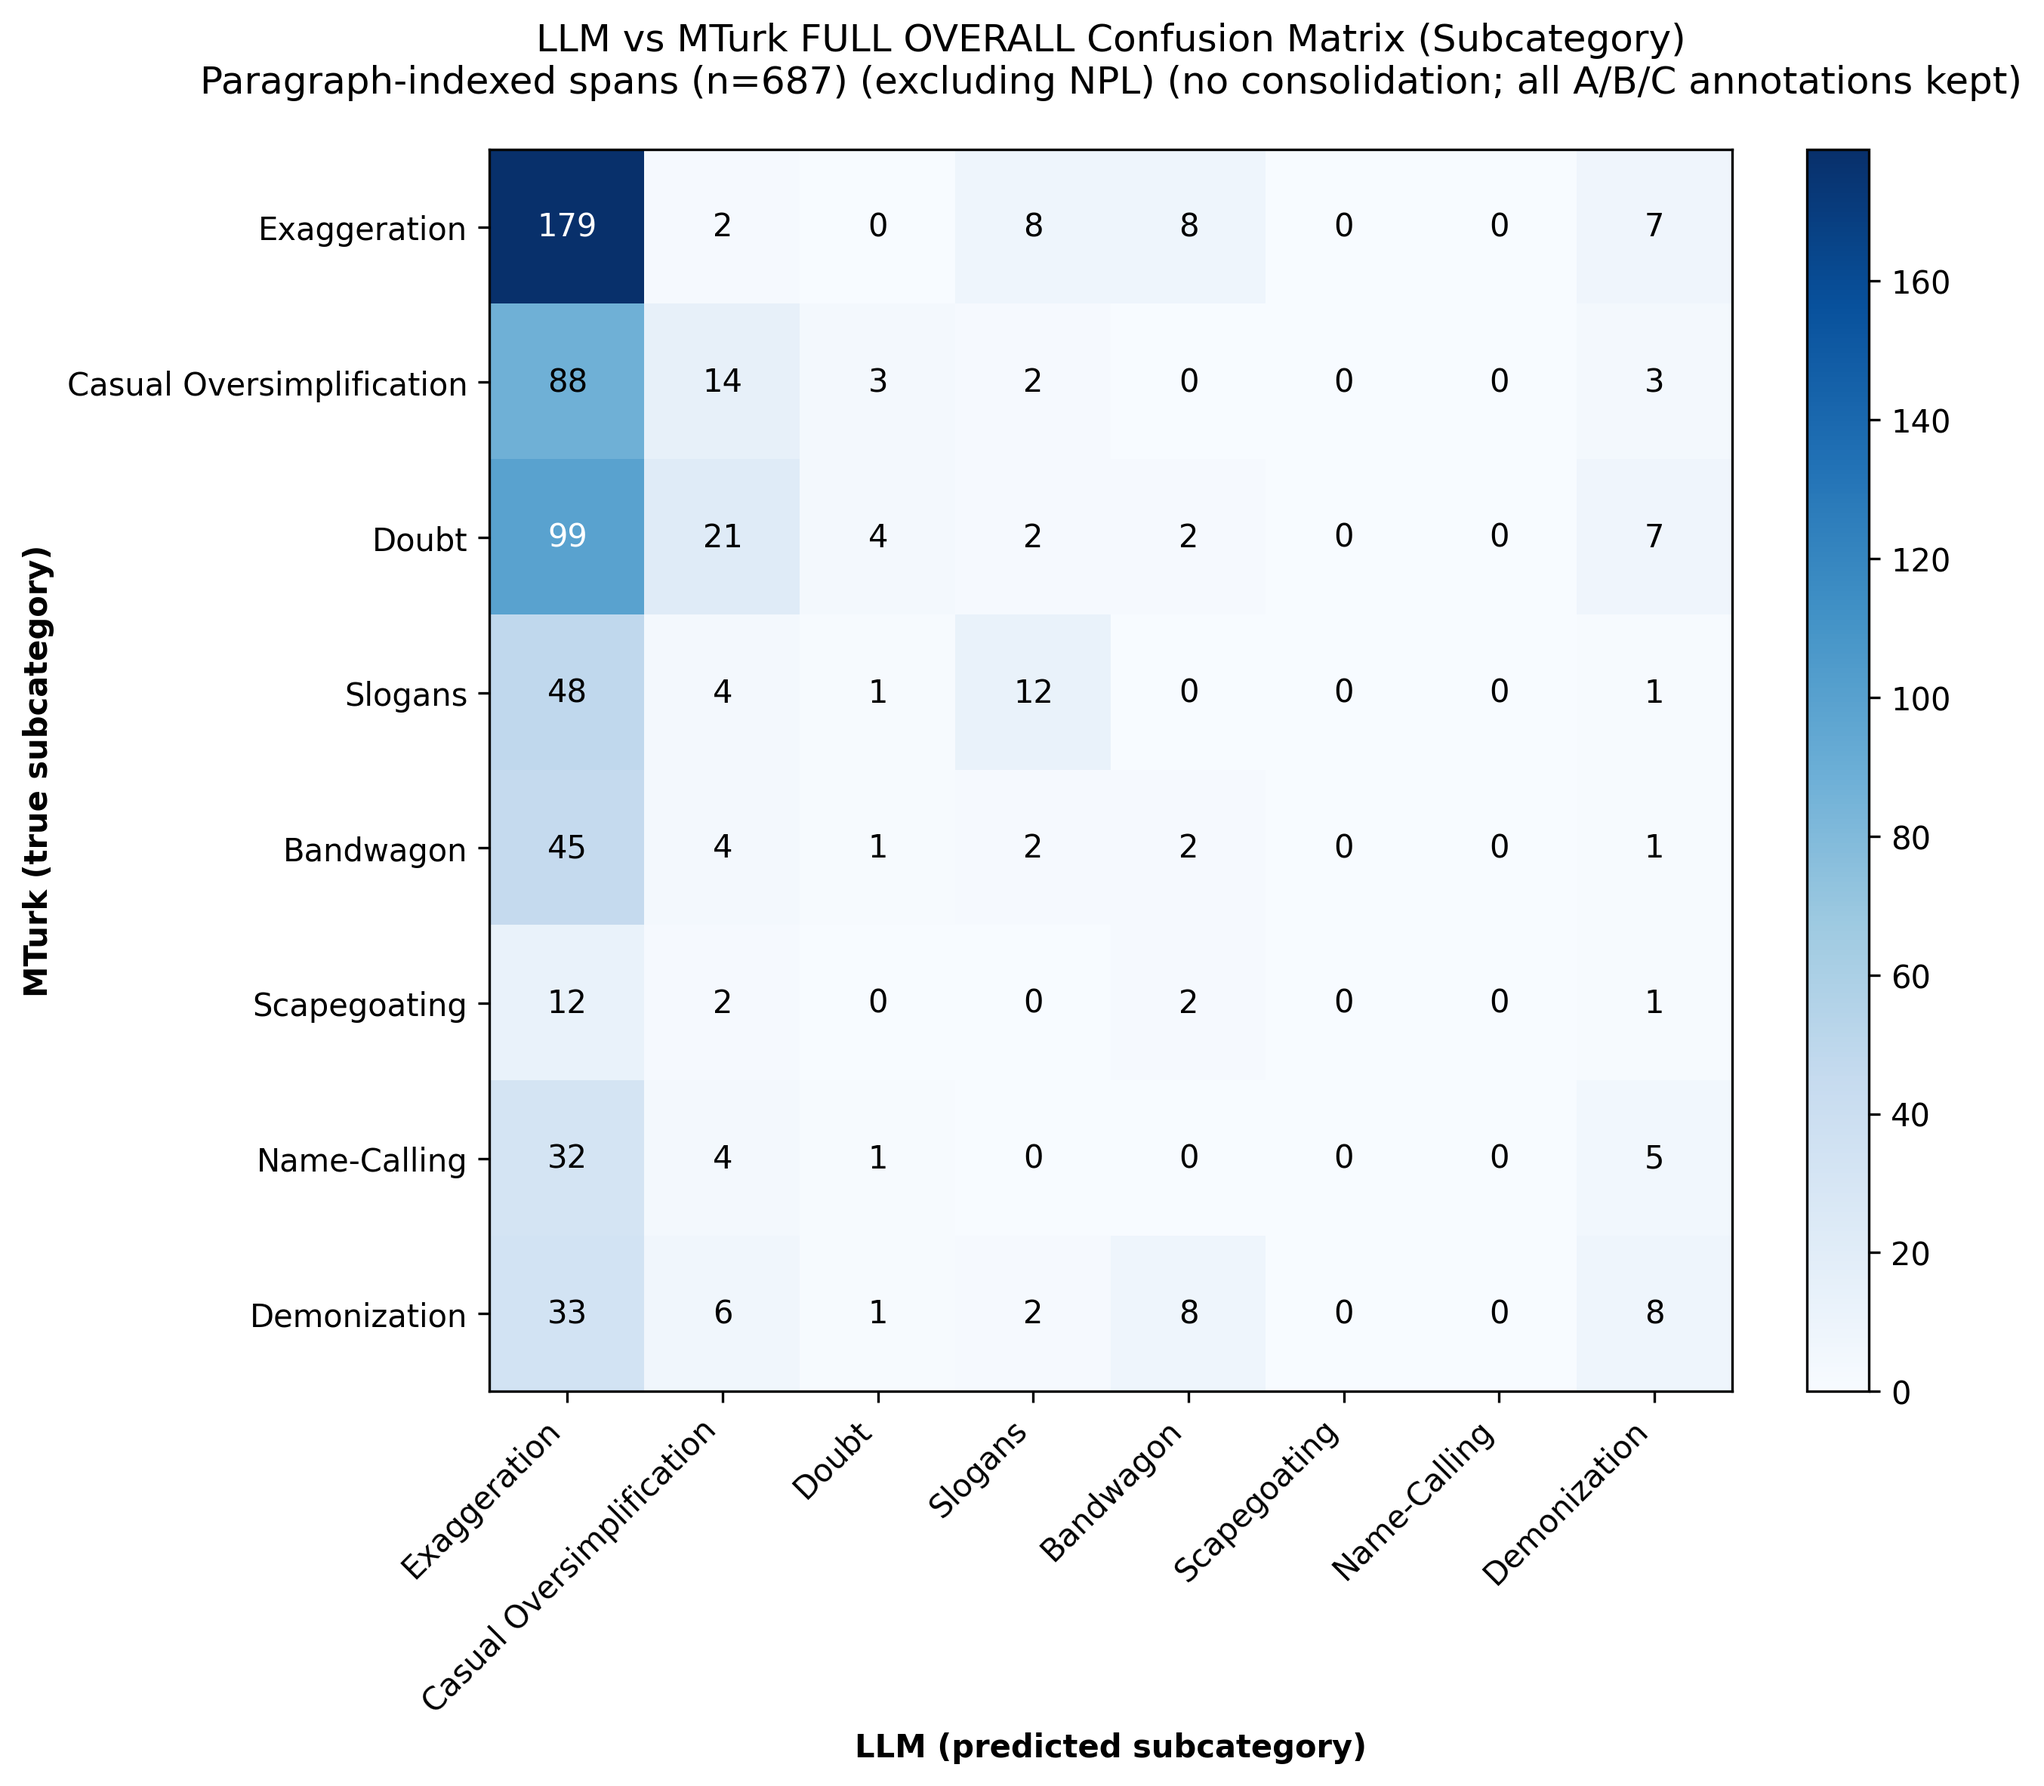
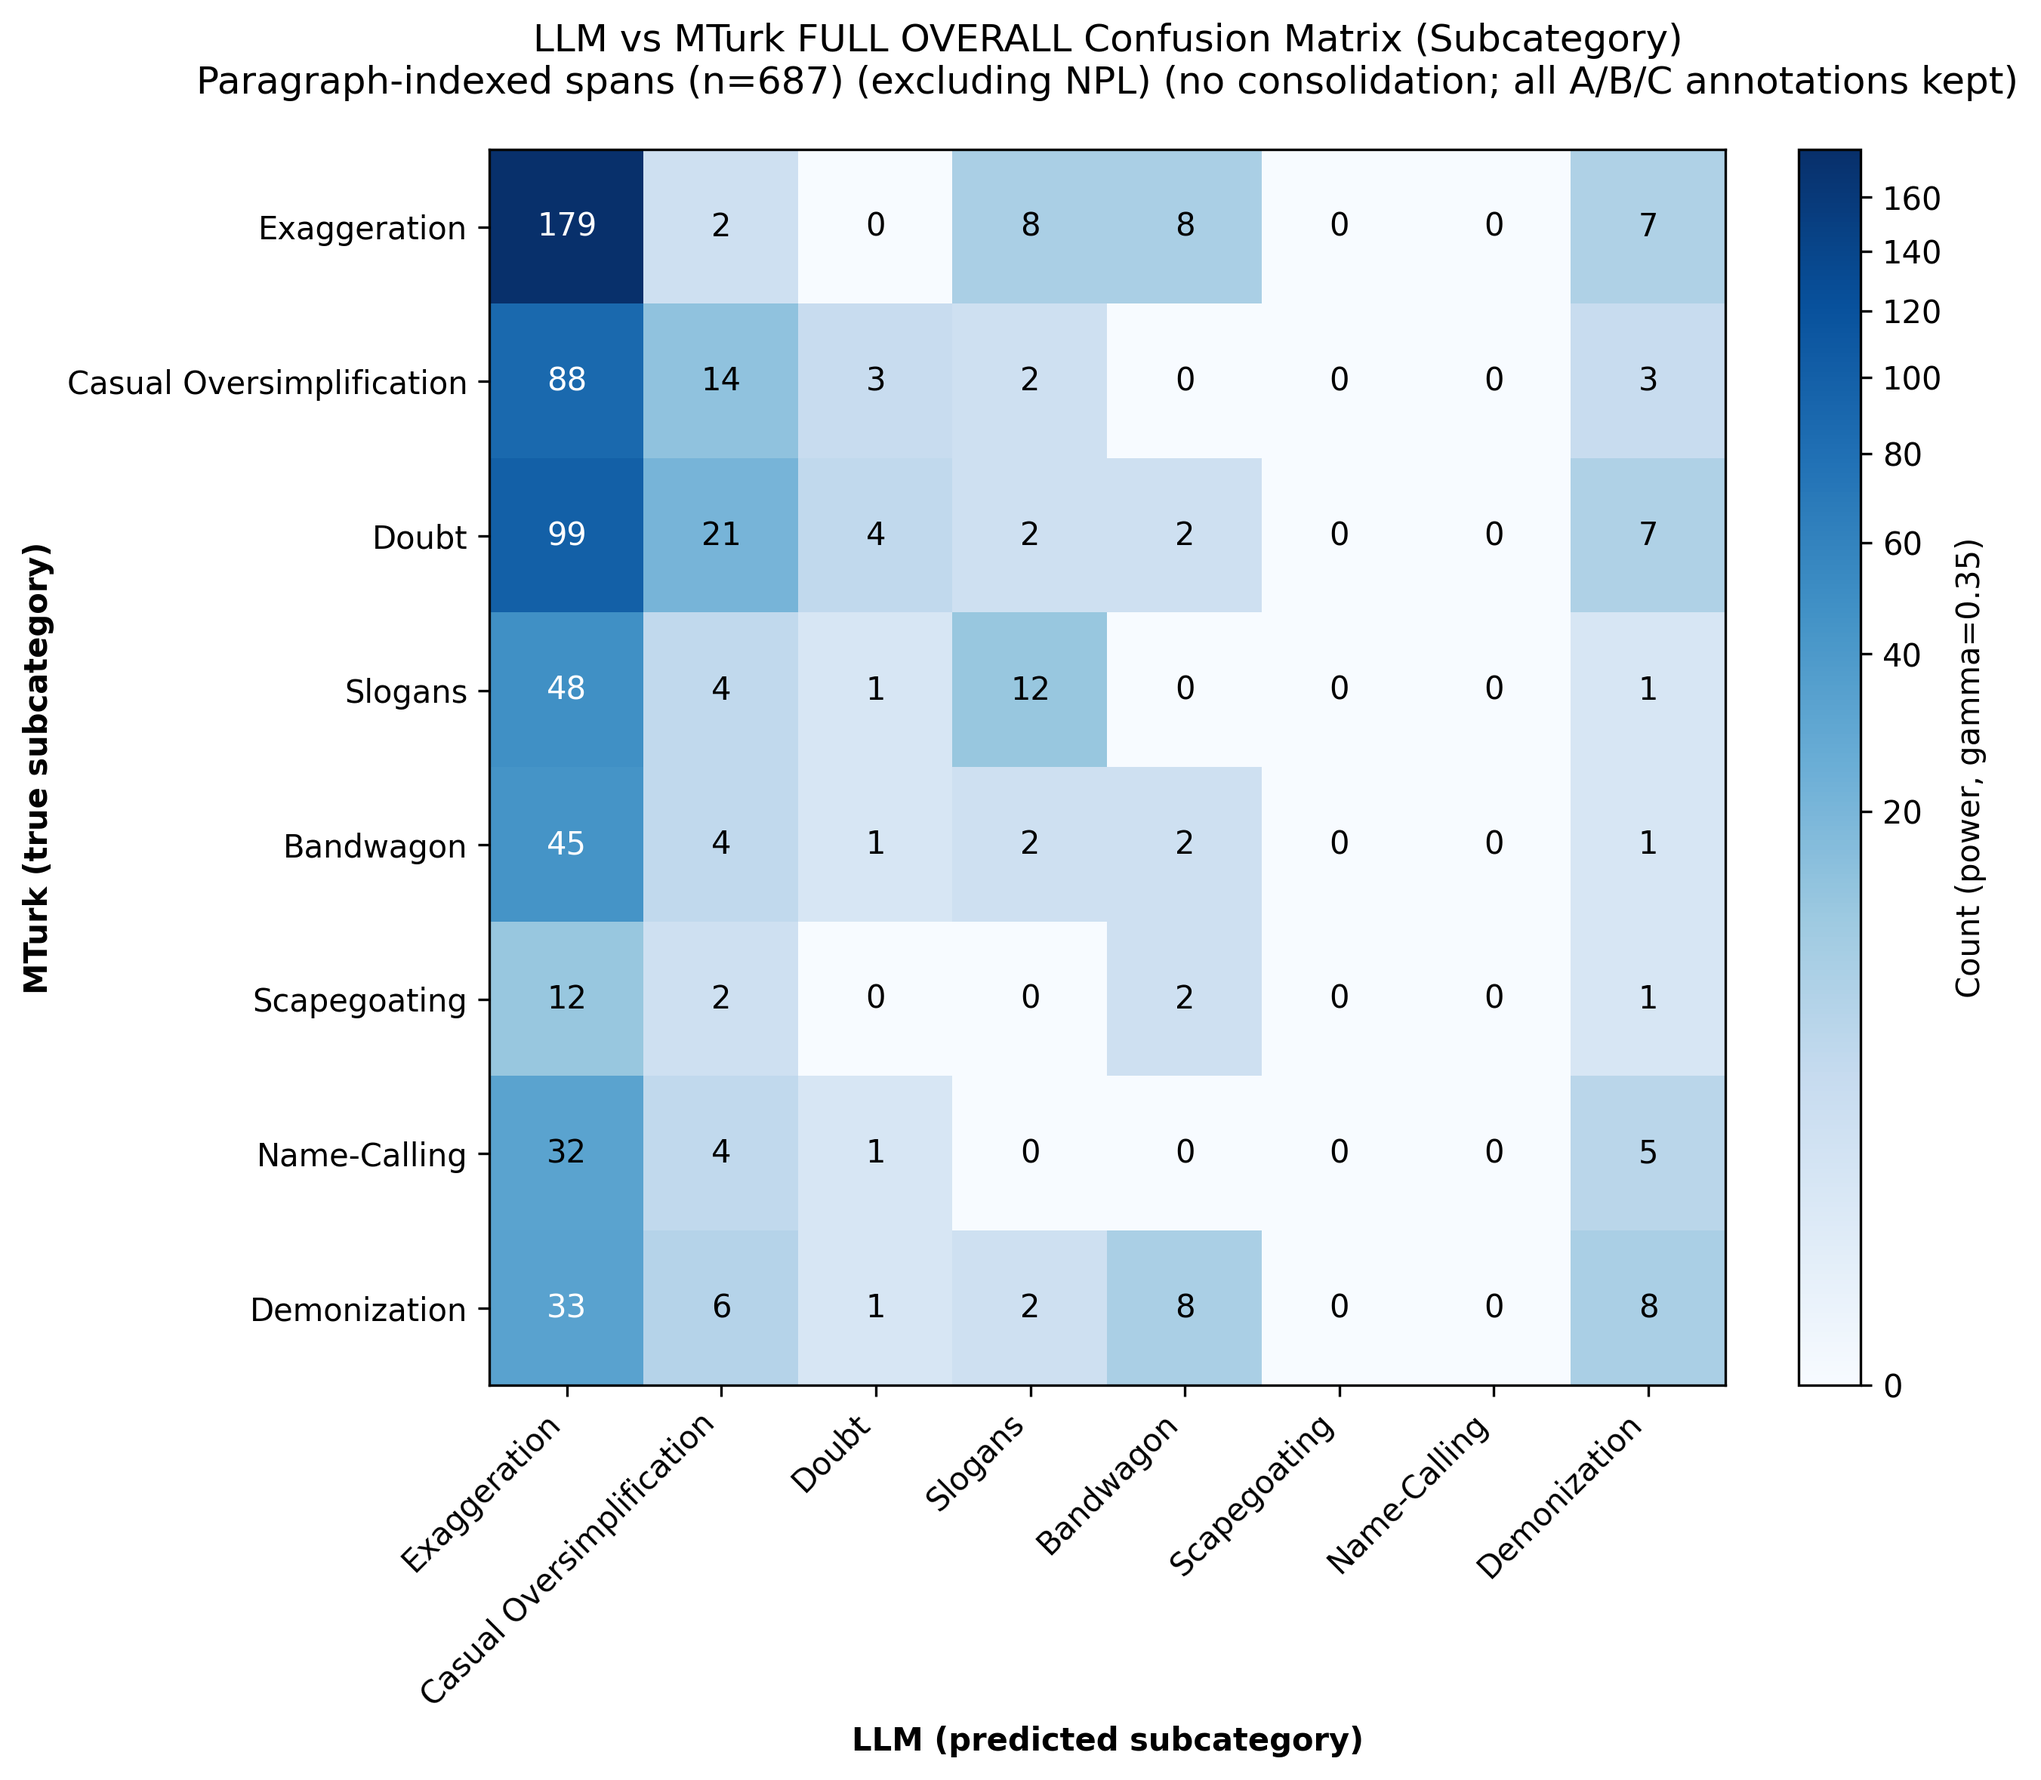
gamma scaling version of the heatmap

diff --git a/src/helper_scripts/full_overall_visualizations/visualize_full_overall_confusion_matrix_humans_vs_llms_no_consolidation.py b/src/helper_scripts/full_overall_visualizations/visualize_full_overall_confusion_matrix_humans_vs_llms_no_consolidation.py
@@ -23,6 +23,8 @@ MPLCONFIGDIR = OUTPUT_DIR / ".mplconfig"
 os.environ.setdefault("MPLCONFIGDIR", str(MPLCONFIGDIR))
 
 import matplotlib.pyplot as plt  # noqa: E402
+import numpy as np  # noqa: E402
+from matplotlib import colors  # noqa: E402
 
 
 # ------------------------
@@ -44,6 +46,13 @@ OUTPUT_IMG = OUTPUT_DIR / "confusion_matrix_llm_vs_mturk_full_overall_subcategor
 # ------------------------
 # If True, include NPL on both axes. If False, skip any pairs where either side is NPL.
 INCLUDE_NPL_IN_MATRIX = False
+
+# Make low-count cells more visible by compressing the color scale.
+USE_ENHANCED_CONTRAST = True
+# Options (only used when USE_ENHANCED_CONTRAST is True): "power", "log"
+COLOR_SCALE = "power"
+# Only used when COLOR_SCALE == "power". Lower gamma -> darker low counts.
+POWER_GAMMA = 0.35
 
 # Order of subcategories on both axes (least -> most severe).
 SEVERITY_ORDER = [
@@ -214,15 +223,34 @@ def plot_confusion_matrix(confusion: Dict[str, Counter], labels: List[str], unit
     MPLCONFIGDIR.mkdir(parents=True, exist_ok=True)
 
     n = len(labels)
-    matrix = [[confusion[true].get(pred, 0) for pred in labels] for true in labels]
+    matrix = np.array([[confusion[true].get(pred, 0) for pred in labels] for true in labels], dtype=float)
 
     plt.style.use("seaborn-v0_8-colorblind")
     fig_w = max(10, 1.05 * n)
     fig_h = max(8, 0.95 * n)
     fig, ax = plt.subplots(figsize=(fig_w, fig_h))
 
-    im = ax.imshow(matrix, cmap="Blues")
-    ax.figure.colorbar(im, ax=ax, fraction=0.046, pad=0.04)
+    cmap = plt.get_cmap("Blues").copy()
+    vmax = float(matrix.max()) if matrix.size else 0.0
+
+    if COLOR_SCALE == "log":
+        # Log scaling improves visibility of small counts, but cannot handle zeros.
+        # Mask zeros so they remain white.
+        masked = np.ma.masked_where(matrix <= 0, matrix)
+        cmap.set_bad(color="white")
+        norm = colors.LogNorm(vmin=1, vmax=max(1.0, float(masked.max()) if masked.count() else 1.0))
+        im = ax.imshow(masked, cmap=cmap, norm=norm)
+        cbar_label = "Count (log scale)"
+    elif COLOR_SCALE == "power":
+        norm = colors.PowerNorm(gamma=POWER_GAMMA, vmin=0.0, vmax=max(1.0, vmax))
+        im = ax.imshow(matrix, cmap=cmap, norm=norm)
+        cbar_label = f"Count (power, gamma={POWER_GAMMA})"
+    else:
+        im = ax.imshow(matrix, cmap=cmap)
+        cbar_label = "Count"
+
+    cbar = ax.figure.colorbar(im, ax=ax, fraction=0.046, pad=0.04)
+    cbar.set_label(cbar_label)
 
     subtitle = f"Paragraph-indexed spans (n={unit_count})"
     if not INCLUDE_NPL_IN_MATRIX:
@@ -239,13 +267,16 @@ def plot_confusion_matrix(confusion: Dict[str, Counter], labels: List[str], unit
     ax.set_xlabel("LLM (predicted subcategory)", fontweight="bold")
     ax.set_ylabel("MTurk (true subcategory)", fontweight="bold")
 
-    vmax = max(max(row) for row in matrix) if matrix else 0
-    threshold = vmax * 0.55
+    threshold = 0.55
     for i in range(n):
         for j in range(n):
-            val = matrix[i][j]
-            color = "white" if val > threshold else "black"
-            ax.text(j, i, str(val), ha="center", va="center", color=color, fontsize=10)
+            val = float(matrix[i, j])
+            if COLOR_SCALE == "log" and val <= 0:
+                intensity = 0.0
+            else:
+                intensity = float(im.norm(val)) if getattr(im, "norm", None) is not None else (val / vmax if vmax else 0.0)
+            color = "white" if intensity > threshold else "black"
+            ax.text(j, i, str(int(val)), ha="center", va="center", color=color, fontsize=10)
 
     fig.tight_layout()
     fig.savefig(OUTPUT_IMG, dpi=300, bbox_inches="tight")
@@ -330,4 +361,3 @@ def main() -> None:
 
 if __name__ == "__main__":
     main()
-
